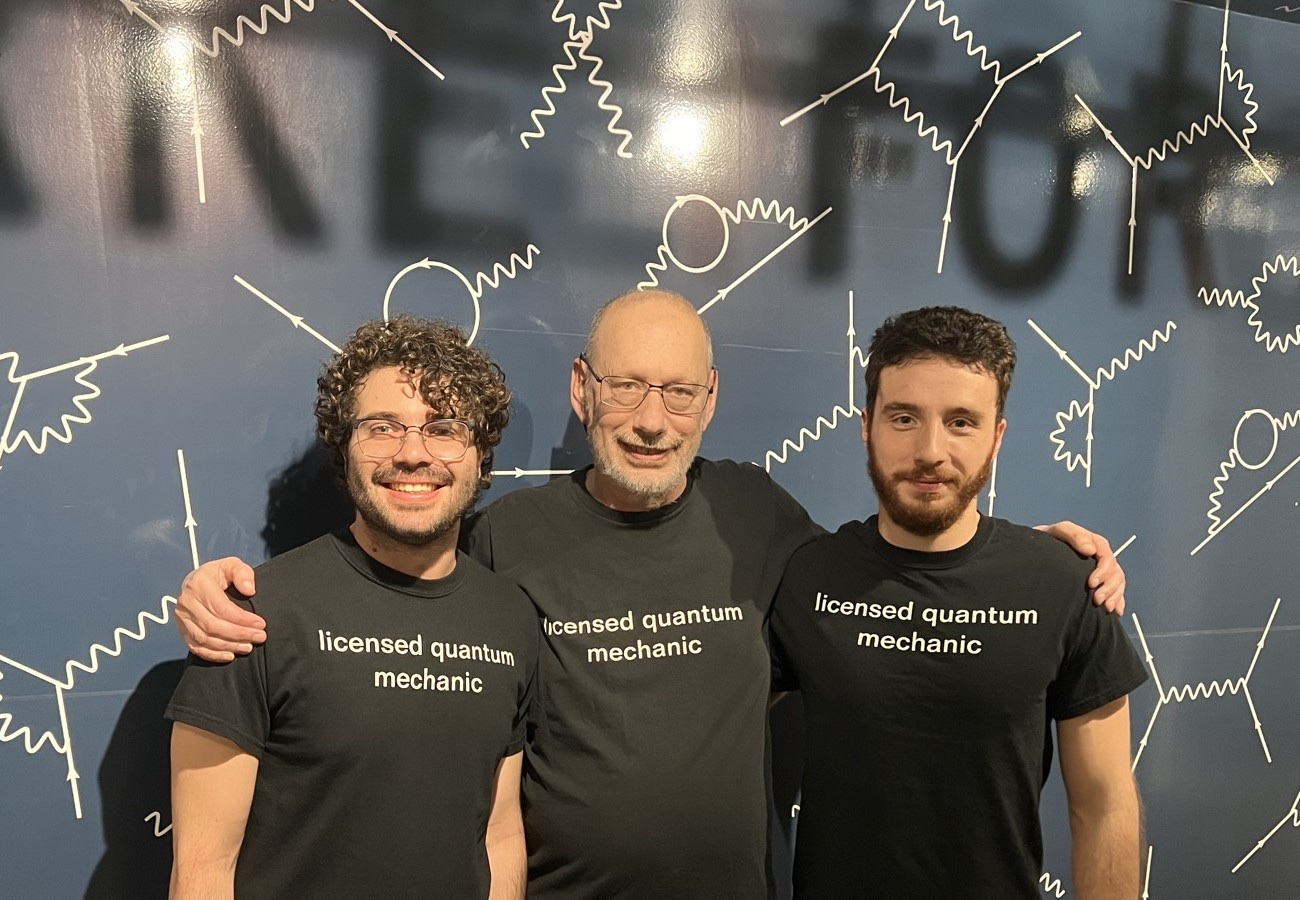
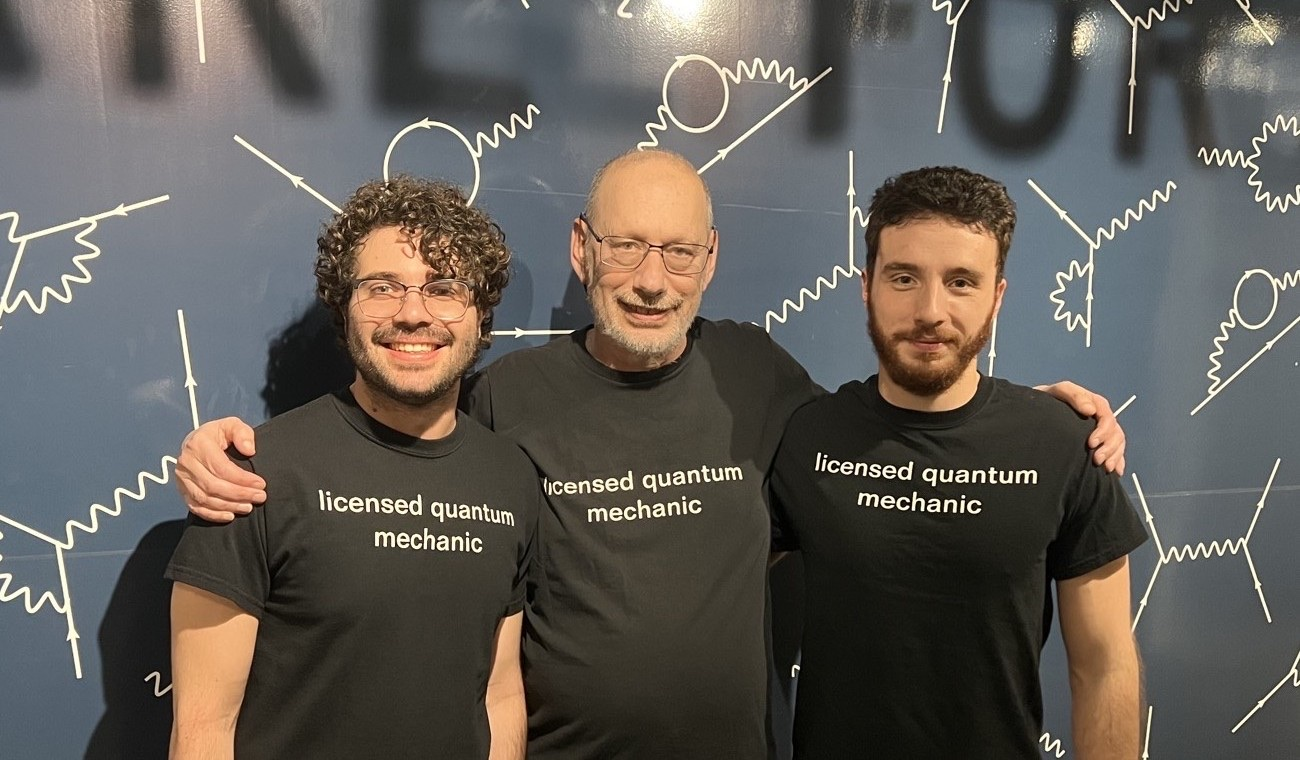
Trim headroom in In Memoriam photo crop
Reduce empty wall space above the subjects' heads.

diff --git a/in-memoriam.html b/in-memoriam.html
@@ -126,7 +126,7 @@
     figure.portrait img {
       display: block;
       width: 100%;
-      aspect-ratio: 13 / 9;
+      aspect-ratio: 65 / 38;
       object-fit: cover;
     }
 
